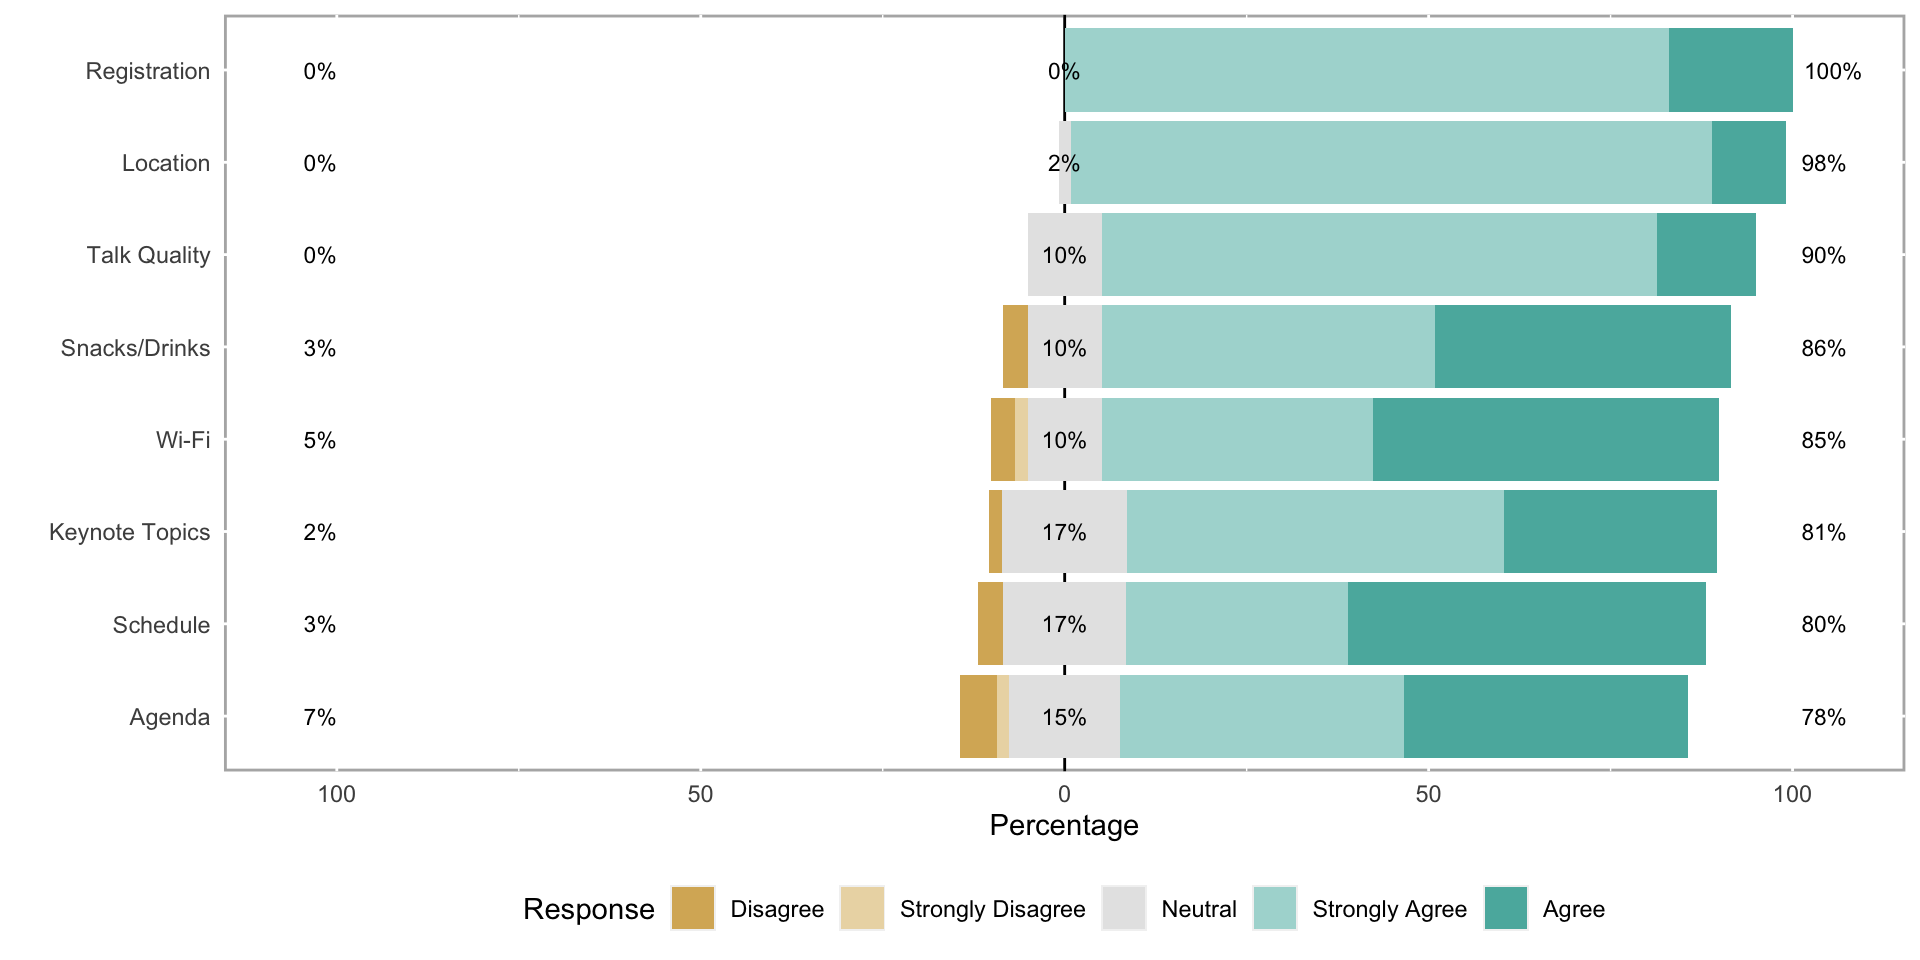
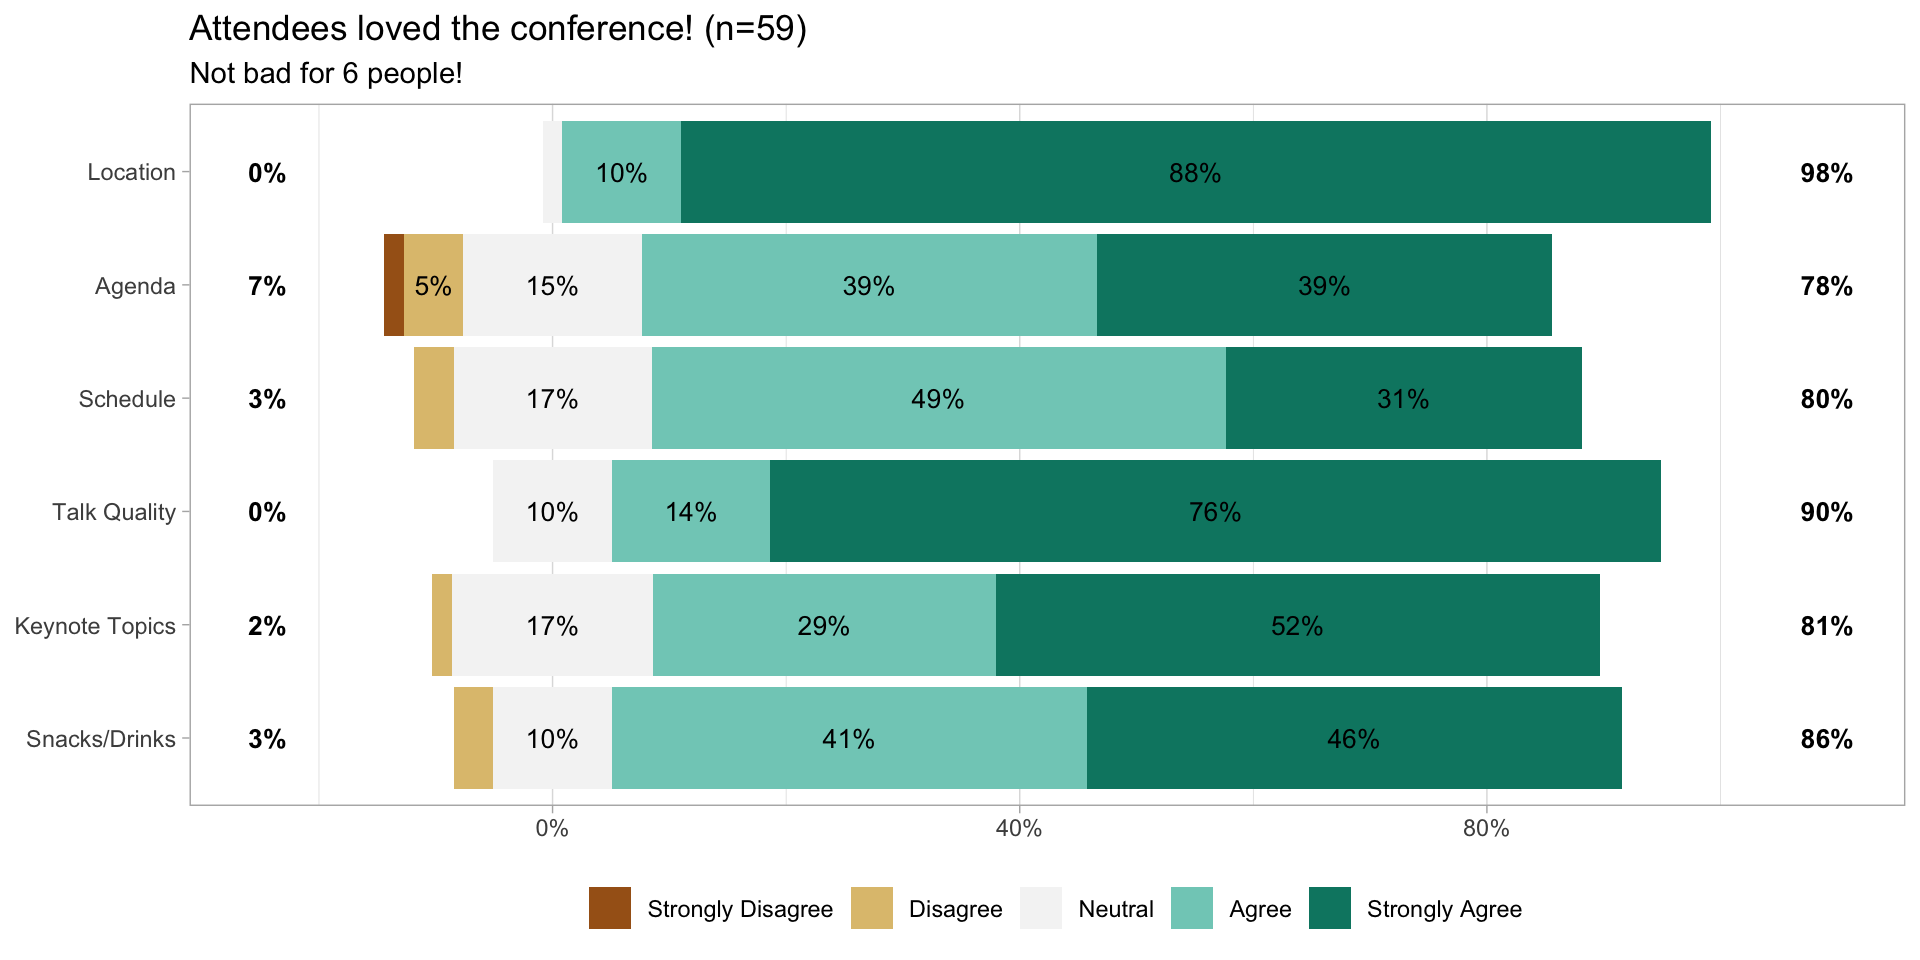
update

diff --git a/docs/index.html b/docs/index.html
@@ -411,12 +411,12 @@ Ted Laderas
 <section id="it-was-just-6-people" class="slide level2">
 <h2>2017: It was just 6 people</h2>
 <ul>
-<li><p>Chester</p></li>
-<li><p>Jessica</p></li>
-<li><p>John</p></li>
-<li><p>Lilly</p></li>
-<li><p>Scott</p></li>
-<li><p>Ted</p></li>
+<li><p>Chester (Drinks/Snacks/Workshops)</p></li>
+<li><p>Jessica ()</p></li>
+<li><p>John ()</p></li>
+<li><p>Lilly (Code of Conduct/)</p></li>
+<li><p>Scott (Website)</p></li>
+<li><p>Ted (OHSU Logistics)</p></li>
 <li><p>But we were an awesome team!</p></li>
 </ul>
 </section>
@@ -496,17 +496,50 @@ Ted Laderas
 <img data-src="images/IMG_4201.JPG" class="r-stretch quarto-figure-center"><p class="caption">Wide picture showing 245 people</p></section>
 <section id="craggy-visualizing-together" class="slide level2">
 <h2>cRaggy: Visualizing Together</h2>
-
-<img data-src="images/IMG_4387.jpg" class="r-stretch"></section>
+<div class="columns">
+<div class="column" style="width:50%;">
+<p><img data-src="images/IMG_4387.jpg"></p>
+</div><div class="column" style="width:50%;">
+<ul>
+<li>This is for fun</li>
+<li>It is NOT about criticizing the original article or graph.</li>
+<li>Be supportive and kind to each other!</li>
+</ul>
+</div>
+</div>
+</section>
 <section id="how-far-did-people-travel" class="slide level2">
 <h2>How far did people travel?</h2>
 
 <img data-src="images/histogram-distance.png" class="r-stretch quarto-figure-center"><p class="caption">Histogram of Distance</p></section>
-<section id="how-did-we-do" class="slide level2">
-<h2>How did we do?</h2>
+<section id="what-happened-on-the-big-day" class="slide level2">
+<h2>What Happened on the Big Day?</h2>
+<ul>
+<li>Lightning Talks: Scott was literally</li>
+</ul>
+</section>
+<section id="how-did-we-do-survey" class="slide level2">
+<h2>How did we do? Survey</h2>
+<div class="cell">
+<div class="cell-output-display">
+<p><img data-src="index_files/figure-revealjs/unnamed-chunk-1-1.png" width="960"></p>
+</div>
+</div>
+<div class="cell">
+<div class="cell-output-display">
+<p><img data-src="index_files/figure-revealjs/unnamed-chunk-2-1.png" width="960"></p>
+</div>
+</div>
+</section>
+<section id="how-did-we-do-2017" class="slide level2">
+<h2>How did we do? (2017)</h2>
 
-<img data-src="index_files/figure-revealjs/unnamed-chunk-1-1.png" width="960" class="r-stretch"></section>
-<section id="how-did-we-do-1" class="slide level2">
+<img data-src="index_files/figure-revealjs/unnamed-chunk-3-1.png" width="960" class="r-stretch"></section>
+<section id="how-did-we-do-2018" class="slide level2">
+<h2>How did we do? (2018)</h2>
+
+<img data-src="index_files/figure-revealjs/unnamed-chunk-4-1.png" width="960" class="r-stretch"></section>
+<section id="how-did-we-do" class="slide level2">
 <h2>How did we do?</h2>
 <blockquote>
 <p>Amazing conference! love the one day thing, the schedule, and the location!</p>
@@ -524,7 +557,7 @@ Ted Laderas
 <section id="what-did-we-learn" class="slide level2">
 <h2>What Did We Learn?</h2>
 <ul>
-<li></li>
+<li>Volunteers are awesome and step up</li>
 <li></li>
 <li></li>
 </ul>
